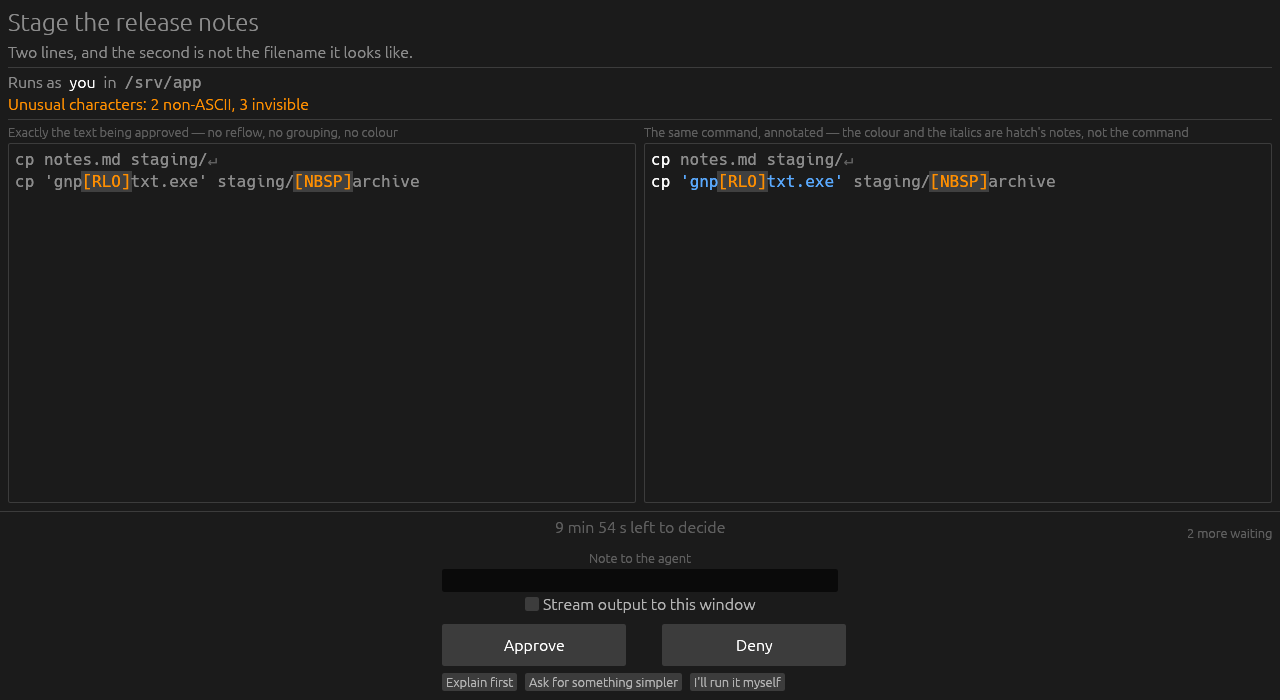
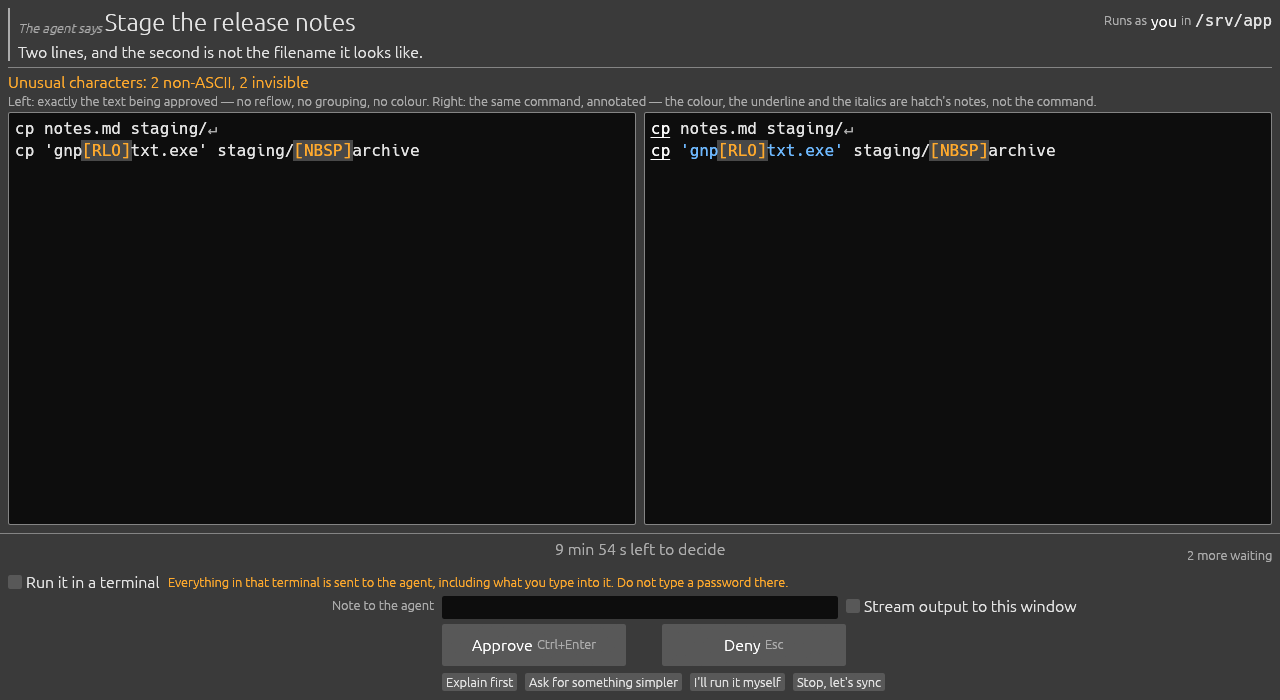
docs: all four images are the window as it is now, and one byte is a byte
Every screenshot was taken before today's work and showed a window that no
longer exists: three escape hatches instead of four, no terminal control and no
warning about what a transcript captures, no keyboard hints on the two primary
buttons, and the header before it was marked as the agent's own words.

The chip image earns its retake twice over. It now reads "2 invisible" where it
used to read three, because the newline between the two commands is drawn in
the place it occupies rather than hidden, and the caption says so — a reader
who counts three characters carrying no ink and sees the number two deserves
the sentence.

Taking them also turned up "1 bytes larger" in the swap panel, which is fixed
here with the pluralisation it needed.

diff --git a/src/prompt_ui/panes.rs b/src/prompt_ui/panes.rs
@@ -369,11 +369,24 @@ pub fn plan_facts(plan: &SwapPlan) -> Vec<(&'static str, String)> {
 }
 
 /// How much bigger or smaller the file gets.
+///
+/// A one-byte change says "1 byte", not "1 bytes". This is a line in a panel
+/// whose whole job is to be read carefully before someone approves a write,
+/// and a sentence that reads as a formatting slip invites the eye to skim the
+/// four facts beside it.
 fn size_delta(delta: i64) -> String {
     match delta {
         0 => "the same number of bytes".to_string(),
-        delta if delta > 0 => format!("{delta} bytes larger"),
-        delta => format!("{} bytes smaller", -delta),
+        delta if delta > 0 => format!("{} larger", bytes(delta)),
+        delta => format!("{} smaller", bytes(-delta)),
+    }
+}
+
+/// A byte count and its noun, agreeing in number.
+fn bytes(count: i64) -> String {
+    match count {
+        1 => "1 byte".to_string(),
+        count => format!("{count} bytes"),
     }
 }
 
@@ -2449,6 +2462,18 @@ mod tests {
         assert_eq!(facts[1], ("Mode", "4755".to_string()), "setuid was rounded away");
         assert_eq!(facts[2].1, "root:0", "a gid with no name lost its number");
         assert_eq!(facts[3].1, "3 bytes smaller");
+    }
+
+    #[test]
+    fn a_single_byte_is_a_byte_and_not_bytes() {
+        // The panel is read once, carefully, before somebody approves a write
+        // to a file. A line that reads as a formatting slip is an invitation
+        // to skim the four beside it.
+        assert_eq!(size_delta(1), "1 byte larger");
+        assert_eq!(size_delta(-1), "1 byte smaller");
+        assert_eq!(size_delta(2), "2 bytes larger");
+        assert_eq!(size_delta(-2), "2 bytes smaller");
+        assert_eq!(size_delta(0), "the same number of bytes");
     }
 
     #[test]

diff --git a/README.md b/README.md
@@ -13,10 +13,12 @@ each time.
 Written in Rust. One binary, two modes: a daemon speaking MCP over streamable
 HTTP on loopback, and a short-lived egui window spawned once per request.
 
-![The hatch approval window. The agent's title and reason are at the top; below
-them a three-line shell command appears twice, raw on the left and annotated on
-the right, with a countdown, a note field and Approve, Deny and the narrower
-buttons along the bottom.](media/approval-command.png)
+![The hatch approval window. The agent's title and reason are at the top,
+marked as the agent's own words; below them a three-line shell command appears
+twice, raw on the left and annotated on the right. Along the bottom: a
+countdown, a terminal checkbox carrying a warning that a transcript captures
+what is typed into it, a note field, a stream checkbox, Approve and Deny with
+their keyboard shortcuts, and four narrower buttons.](media/approval-command.png)
 
 *One request, waiting. The header is the agent's own words, marked as such: a
 rule down the side and "The agent says" in front of them. The left pane is
@@ -281,7 +283,9 @@ and is not, and without the chip the two lines look like the same kind of
 thing. `[NBSP]` is a non-breaking space inside a path that appears to be
 `staging/archive`. The ordinary newline ending the first line stays a quiet
 `↵`, because if it shouted as loudly as those two nobody would keep reading
-either. The header counts what it found.*
+either. The header counts what it found — and counts two, not three: the
+newline carries no ink, but it has been drawn in the place it occupies rather
+than hidden, so it is not what that number is about.*
 
 A file replacement gets the same treatment, plus a statement of exactly where
 the bytes will land:
